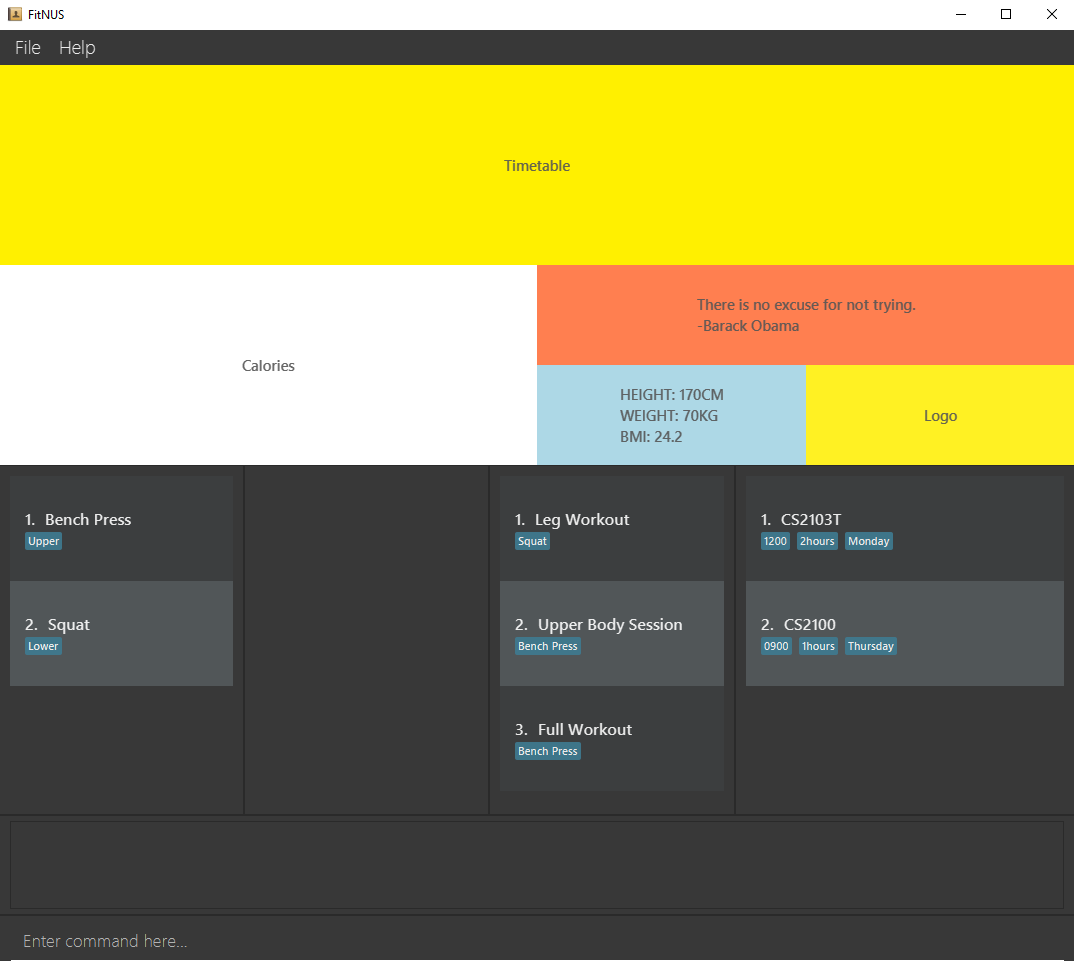
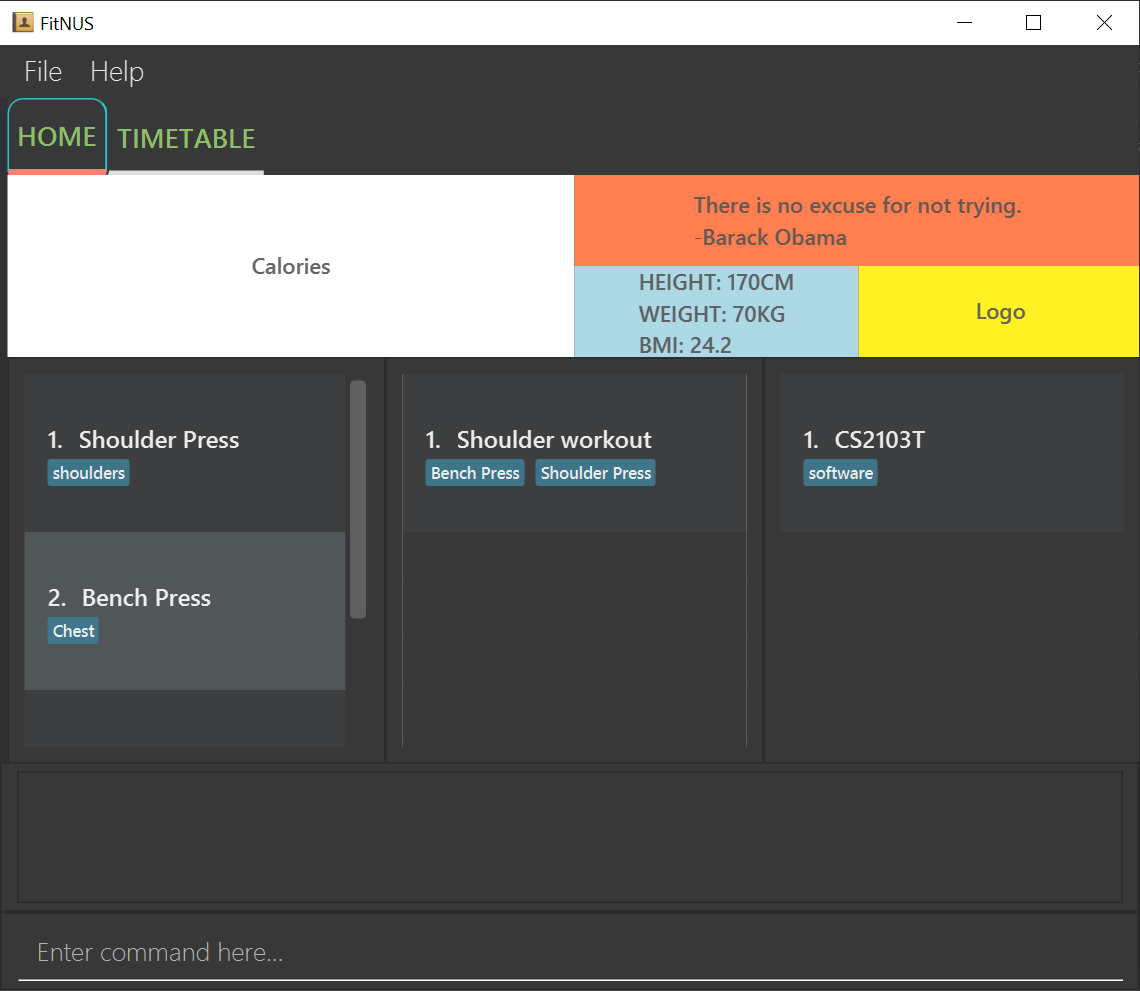
Add Tabs to GUI
Currently have "HOME" and "TIMETABLE" tabs, content in TIMETABLE tab is still a placeholder for now.

Update UG UI.png

diff --git a/src/main/resources/view/css/Tab.css b/src/main/resources/view/css/Tab.css
@@ -1,0 +1,36 @@
+.tab-pane {
+    -fx-margin: 0 -15 0 5;
+    -fx-padding: 0 0 0 5;
+    -fx-background-color: #313133;
+    -fx-alignment: CENTER;
+}
+
+.tab-header-background {
+    -fx-background-color: #383838;
+}
+
+.tab {
+    -fx-background-color: #383838;
+    -fx-padding: 11 0 13 0;
+    -fx-border-radius: 10 10 0 0;
+    -fx-border-width: 1px 1px 3px 1px;
+    -fx-border-color: #383838 #383838 #e0e0e0 #383838;
+    -fx-min-width: 100px;
+    -fx-focus-color: transparent;
+    -fx-faint-focus-color: transparent;
+    -fx-open-tab-animation: NONE;
+    -fx-close-tab-animation: NONE;
+}
+
+.tab-label {
+    -fx-text-fill: #8DBE6A;
+    -fx-font-family: "Segoe UI Semibold";
+    -fx-font-size: 18;
+    -fx-alignment: center;
+    -fx-padding: 0px 5px 0px 5px;
+}
+
+.tab:selected {
+    -fx-border-width: 1px 1.5px 4px 1px;
+    -fx-border-color: #2AC3CB #2AC3CB salmon #2AC3CB;
+}

diff --git a/src/main/java/seedu/address/ui/MainWindow.java b/src/main/java/seedu/address/ui/MainWindow.java
@@ -4,16 +4,14 @@ import java.util.logging.Logger;
 
 import javafx.event.ActionEvent;
 import javafx.fxml.FXML;
-import javafx.geometry.Insets;
 import javafx.scene.control.MenuItem;
+import javafx.scene.control.TabPane;
 import javafx.scene.control.TextInputControl;
 import javafx.scene.input.KeyCombination;
 import javafx.scene.input.KeyEvent;
-import javafx.scene.layout.Background;
-import javafx.scene.layout.BackgroundFill;
-import javafx.scene.layout.CornerRadii;
+import javafx.scene.layout.Priority;
 import javafx.scene.layout.StackPane;
-import javafx.scene.paint.Color;
+import javafx.scene.layout.VBox;
 import javafx.stage.Stage;
 import seedu.address.commons.core.GuiSettings;
 import seedu.address.commons.core.LogsCenter;
@@ -36,10 +34,8 @@ public class MainWindow extends UiPart<Stage> {
     private Logic logic;
 
     // Independent Ui parts residing in this Ui container
-    private PersonListPanel personListPanel;
-    private ExerciseListPanel exerciseListPanel;
-    private LessonListPanel lessonListPanel;
-    private RoutineListPanel routineListPanel;
+    private HomePanel homePanel;
+    private TimetablePanel timetablePanel;
     private ResultDisplay resultDisplay;
     private HelpWindow helpWindow;
 
@@ -50,22 +46,19 @@ public class MainWindow extends UiPart<Stage> {
     private MenuItem helpMenuItem;
 
     @FXML
-    private StackPane personListPanelPlaceholder;
+    private StackPane homeContentPlaceholder;
 
     @FXML
-    private StackPane routineListPanelPlaceholder;
-
-    @FXML
-    private StackPane exerciseListPanelPlaceholder;
-
-    @FXML
-    private StackPane lessonListPanelPlaceholder;
+    private StackPane timetableContentPlaceholder;
 
     @FXML
     private StackPane resultDisplayPlaceholder;
 
     @FXML
     private StackPane statusbarPlaceholder;
+
+    @FXML
+    private TabPane tabPanePlaceHolder;
 
     /**
      * Creates a {@code MainWindow} with the given {@code Stage} and {@code Logic}.
@@ -127,14 +120,17 @@ public class MainWindow extends UiPart<Stage> {
      * Fills up all the placeholders of this window.
      */
     void fillInnerParts() {
-        personListPanel = new PersonListPanel(logic.getFilteredPersonList());
-        personListPanelPlaceholder.getChildren().add(personListPanel.getRoot());
+        //        exerciseListPanel = new ExerciseListPanel(logic.getFilteredExerciseList());
+        //        exerciseListPanelPlaceholder.getChildren().add(exerciseListPanel.getRoot());
+        //
+        //        lessonListPanel = new LessonListPanel(logic.getFilteredLessonList());
+        //        lessonListPanelPlaceholder.getChildren().add(lessonListPanel.getRoot());
 
-        exerciseListPanel = new ExerciseListPanel(logic.getFilteredExerciseList());
-        exerciseListPanelPlaceholder.getChildren().add(exerciseListPanel.getRoot());
+        homePanel = new HomePanel(logic);
+        homeContentPlaceholder.getChildren().add(homePanel.getRoot());
 
-        lessonListPanel = new LessonListPanel(logic.getFilteredLessonList());
-        lessonListPanelPlaceholder.getChildren().add(lessonListPanel.getRoot());
+        timetablePanel = new TimetablePanel(logic);
+        timetableContentPlaceholder.getChildren().add(timetablePanel.getRoot());
 
         resultDisplay = new ResultDisplay();
         resultDisplayPlaceholder.getChildren().add(resultDisplay.getRoot());
@@ -145,10 +141,17 @@ public class MainWindow extends UiPart<Stage> {
         CommandBox commandBox = new CommandBox(this::executeCommand);
         commandBoxPlaceholder.getChildren().add(commandBox.getRoot());
 
-        routineListPanelPlaceholder.setBackground(new Background(new BackgroundFill(Color.YELLOW, CornerRadii.EMPTY,
-                Insets.EMPTY)));
-        routineListPanel = new RoutineListPanel(logic.getFilteredRoutineList());
-        routineListPanelPlaceholder.getChildren().add(routineListPanel.getRoot());
+        //        routineListPanelPlaceholder.setBackground
+        //        (new Background(new BackgroundFill(Color.YELLOW, CornerRadii.EMPTY,
+        //                Insets.EMPTY)));
+        //        routineListPanel = new RoutineListPanel(logic.getFilteredRoutineList());
+        //        routineListPanelPlaceholder.getChildren().add(routineListPanel.getRoot());
+
+        tabPanePlaceHolder.setMinWidth(530);
+        tabPanePlaceHolder.setMinHeight(50);
+
+        VBox.setVgrow(tabPanePlaceHolder, Priority.ALWAYS);
+
     }
 
     /**
@@ -189,10 +192,6 @@ public class MainWindow extends UiPart<Stage> {
         logic.setGuiSettings(guiSettings);
         helpWindow.hide();
         primaryStage.hide();
-    }
-
-    public PersonListPanel getPersonListPanel() {
-        return personListPanel;
     }
 
     /**

diff --git a/src/main/java/seedu/address/ui/HomePanel.java b/src/main/java/seedu/address/ui/HomePanel.java
@@ -1,0 +1,58 @@
+package seedu.address.ui;
+
+import java.util.logging.Logger;
+
+import javafx.fxml.FXML;
+import javafx.geometry.Insets;
+import javafx.scene.layout.Background;
+import javafx.scene.layout.BackgroundFill;
+import javafx.scene.layout.CornerRadii;
+import javafx.scene.layout.Region;
+import javafx.scene.layout.StackPane;
+import javafx.scene.paint.Color;
+import seedu.address.commons.core.LogsCenter;
+import seedu.address.logic.Logic;
+
+public class HomePanel extends UiPart<Region> {
+
+    private static final String FXML = "HomePanel.fxml";
+
+    private final Logger logger = LogsCenter.getLogger(getClass());
+
+    private Logic logic;
+
+    // Independent Ui parts residing in this Ui container
+    private ExerciseListPanel exerciseListPanel;
+    private LessonListPanel lessonListPanel;
+    private RoutineListPanel routineListPanel;
+
+    @FXML
+    private StackPane routineListPanelPlaceholder;
+
+    @FXML
+    private StackPane exerciseListPanelPlaceholder;
+
+    @FXML
+    private StackPane lessonListPanelPlaceholder;
+
+    /** Constructs HomePanel
+     *
+     * @param logic
+     */
+    public HomePanel(Logic logic) {
+        super(FXML);
+
+        this.logic = logic;
+
+        exerciseListPanel = new ExerciseListPanel(logic.getFilteredExerciseList());
+        exerciseListPanelPlaceholder.getChildren().add(exerciseListPanel.getRoot());
+
+        lessonListPanel = new LessonListPanel(logic.getFilteredLessonList());
+        lessonListPanelPlaceholder.getChildren().add(lessonListPanel.getRoot());
+
+        routineListPanelPlaceholder.setBackground(new Background(new BackgroundFill(Color.YELLOW, CornerRadii.EMPTY,
+                Insets.EMPTY)));
+        routineListPanel = new RoutineListPanel(logic.getFilteredRoutineList());
+        routineListPanelPlaceholder.getChildren().add(routineListPanel.getRoot());
+    }
+}

diff --git a/src/main/java/seedu/address/ui/TimetablePanel.java b/src/main/java/seedu/address/ui/TimetablePanel.java
@@ -1,0 +1,25 @@
+package seedu.address.ui;
+
+import java.util.logging.Logger;
+
+import javafx.scene.layout.Region;
+import seedu.address.commons.core.LogsCenter;
+import seedu.address.logic.Logic;
+
+public class TimetablePanel extends UiPart<Region> {
+    private static final String FXML = "TimetablePanel.fxml";
+
+    private final Logger logger = LogsCenter.getLogger(getClass());
+
+    private Logic logic;
+
+    /** Constructs TimetablePanel
+     *
+     * @param logic
+     */
+    public TimetablePanel(Logic logic) {
+        super(FXML);
+
+        this.logic = logic;
+    }
+}
